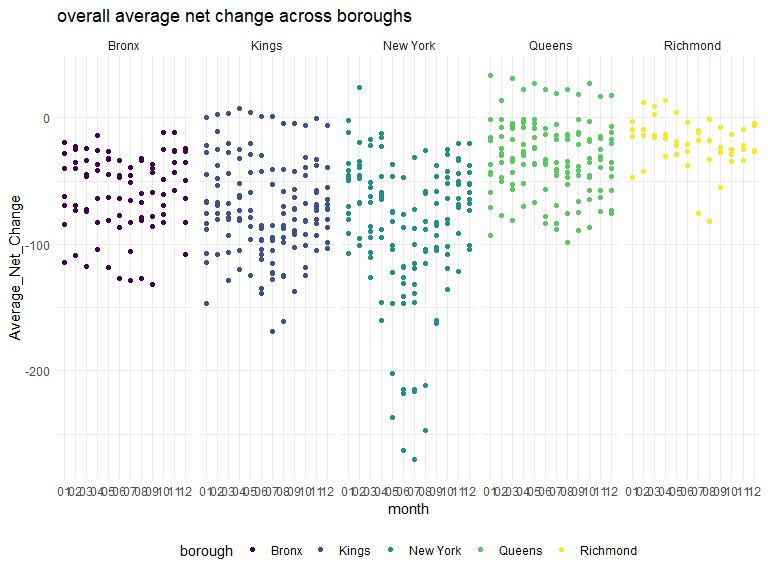
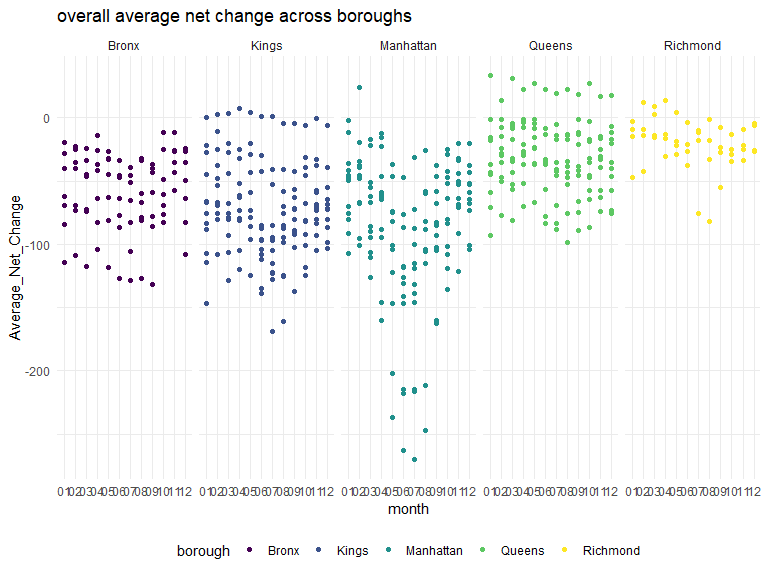
Write in report format

diff --git a/mt_project.md b/mt_project.md
@@ -1,4 +1,4 @@
-MT_project
+MT_Project
 ================
 Xiangxiong Feng
 2023-10-23
@@ -21,27 +21,28 @@ Xiangxiong Feng
     ## 
     ##     guess_encoding
 
-\#Problem one
+# Part-1
 
-The two raw datasets include ‘USPS CHANGES OF ADDRESS NYC’ and ‘Zip
-Codes’. The ‘USPS CHANGES OF ADDRESS NYC’ shows the aggregate Change of
-Address (COA) data in New York City between 2018 and 2022. The data
-includes 7variables such as zip code. There are total 11845
+The two raw datasets include `USPS CHANGES OF ADDRESS NYC` and
+`Zip Codes`. The ‘USPS CHANGES OF ADDRESS NYC’ shows the aggregate
+Change of Address (COA) data in New York City between 2018 and 2022. The
+data includes 7 variables such as zip code. There are total 11845
 observations. The ‘Zip Codes’ is a supplementary dataset which has
 important variables such as name of county and its neighborhood. There
-are 8 variables and 324observation.
+are 8 variables and 324 observation. The main goal of this report is to
+have a insights into trends in moving and changes of population size in
+different location in NYC.
 
-    ## # A tibble: 1 × 1
-    ##       n
-    ##   <int>
-    ## 1   320
+The first part is data cleaning and combination. For COA data, a
+variable `year` is added, and a variable `net_change` is created by
+subtracting outbound COAs from inbound COAs. For Zip Codes data, a
+variable `borough` is created using county names. Then, the two datasets
+are combined together and irrelevant variables are dropped. The
+resulting tidy dataset has 12168 observation and 9 variables. There are
+320 unique ZIP codes and 42 unique neighborhood.
 
-    ## # A tibble: 1 × 1
-    ##       n
-    ##   <int>
-    ## 1    42
-
-# 
+Then the `city` variable and \`borough variable is compared. The table
+below shows the most common values of city in the borough of Queens.
 
 | CITY                | Count |
 |:--------------------|------:|
@@ -114,6 +115,9 @@ are 8 variables and 324observation.
 | NEW YORK CITY       |     1 |
 | ST ALBANS           |     1 |
 
+The table below shows the most common values of city in the borough of
+Manhattan(New York County).
+
 | CITY             | Count |
 |:-----------------|------:|
 | NEW YORK         |  3477 |
@@ -137,44 +141,49 @@ origin Zip Codes data. For example, the records for ZIP code 10008 for
 certain months are missing, and this ZIP cod has fewer 60 observations.
 The neighborhood of this Zip code is also missing.
 
-# problem 2
+# Part-2
+
+A table showing the average of `net_change` in each borough and year is
+created and shown below. From this table, we can see that the overall
+average net change keeps getting more negative from 2018 and reach an
+unusual peak around 2020, then it begins to return to normal level. The
+overall population size is dercreasing.
 
     ## `summarise()` has grouped output by 'borough'. You can override using the
     ## `.groups` argument.
 
-| borough  | year | Average_net_change |
-|:---------|:-----|-------------------:|
-| Bronx    | 2018 |             -46.30 |
-| Bronx    | 2019 |             -48.02 |
-| Bronx    | 2020 |             -72.65 |
-| Bronx    | 2021 |             -66.10 |
-| Bronx    | 2022 |             -53.19 |
-| Kings    | 2018 |             -46.18 |
-| Kings    | 2019 |             -51.68 |
-| Kings    | 2020 |            -110.67 |
-| Kings    | 2021 |             -76.84 |
-| Kings    | 2022 |             -55.38 |
-| New York | 2018 |             -39.80 |
-| New York | 2019 |             -52.54 |
-| New York | 2020 |            -127.70 |
-| New York | 2021 |             -39.47 |
-| New York | 2022 |             -46.18 |
-| Queens   | 2018 |             -25.71 |
-| Queens   | 2019 |             -28.09 |
-| Queens   | 2020 |             -46.55 |
-| Queens   | 2021 |             -43.30 |
-| Queens   | 2022 |             -29.28 |
-| Richmond | 2018 |              -9.85 |
-| Richmond | 2019 |              -9.12 |
-| Richmond | 2020 |             -10.54 |
-| Richmond | 2021 |             -22.55 |
-| Richmond | 2022 |             -16.30 |
+| borough   | year | Average_net_change |
+|:----------|:-----|-------------------:|
+| Bronx     | 2018 |             -46.30 |
+| Bronx     | 2019 |             -48.02 |
+| Bronx     | 2020 |             -72.65 |
+| Bronx     | 2021 |             -66.10 |
+| Bronx     | 2022 |             -53.19 |
+| Kings     | 2018 |             -46.18 |
+| Kings     | 2019 |             -51.68 |
+| Kings     | 2020 |            -110.67 |
+| Kings     | 2021 |             -76.84 |
+| Kings     | 2022 |             -55.38 |
+| Manhattan | 2018 |             -39.80 |
+| Manhattan | 2019 |             -52.54 |
+| Manhattan | 2020 |            -127.70 |
+| Manhattan | 2021 |             -39.47 |
+| Manhattan | 2022 |             -46.18 |
+| Queens    | 2018 |             -25.71 |
+| Queens    | 2019 |             -28.09 |
+| Queens    | 2020 |             -46.55 |
+| Queens    | 2021 |             -43.30 |
+| Queens    | 2022 |             -29.28 |
+| Richmond  | 2018 |              -9.85 |
+| Richmond  | 2019 |              -9.12 |
+| Richmond  | 2020 |             -10.54 |
+| Richmond  | 2021 |             -22.55 |
+| Richmond  | 2022 |             -16.30 |
 
-A table showing the average of `net_change` in each borough and year is
-created. From this table, we can see that the overall average net change
-keeps getting more negative from 2018 and reach an unusual peak around
-2020, then it begins to return to normal level. The overall population
-size is dercreasing.
+The table below shows the five lowest values of net change. We can see
+that all see that all these five observation are made in 2020, which is
+corresponding to our last table. The reason could be population loss and
+death caused COVID pandemic.
 
 | ZIPCODE | Neighborhood                  | year | month | net_change |
 |--------:|:------------------------------|:-----|:------|-----------:|
@@ -184,10 +193,9 @@ size is dercreasing.
 |   10016 | Gramercy Park and Murray Hill | 2020 | 07    |       -855 |
 |   10009 | Lower East Side               | 2020 | 06    |       -804 |
 
-The table above shows the five lowest values of net change. We can see
-that all see that all these five observation are made in 2020, which is
-corresponding to our last table. The neighborhood of three observation
-are ‘Gramercy Park and Murray Hill’.
+The table below shows the five highest values of net change across data
+observed before 2020. These neighborhoods could have higher commerical
+value and value of further development.
 
 | ZIPCODE | Neighborhood        | year | month | net_change |
 |--------:|:--------------------|:-----|:------|-----------:|
@@ -197,8 +205,13 @@ are ‘Gramercy Park and Murray Hill’.
 |   10001 | Chelsea and Clinton | 2018 | 07    |        225 |
 |   11201 | Northwest Brooklyn  | 2018 | 04    |        217 |
 
-The table above shows the five highest values of net change across data
-observed before 2020.
+A plot of overall average net change across boroughs at
+neighborhood-level is shown below. For the plot, we can see that
+Manhattan experienced the largest population loss during April to
+September. There are many potential reasons such as Many college
+students graduating and at this time. There are some limitations of this
+dataset for understanding changes in ZIP code level population sizes.For
+example, several different ZIP codes are used in one same neighborhood.
 
     ## `summarise()` has grouped output by 'borough', 'month'. You can override using
     ## the `.groups` argument.
@@ -220,7 +233,115 @@ observed before 2020.
 
 | Method          | koRpus      | stringi       |
 |:----------------|:------------|:--------------|
-| Word count      | 274         | 261           |
-| Character count | 1587        | 1587          |
-| Sentence count  | 19          | Not available |
-| Reading time    | 1.4 minutes | 1.3 minutes   |
+| Word count      | 499         | 488           |
+| Character count | 2984        | 2984          |
+| Sentence count  | 35          | Not available |
+| Reading time    | 2.5 minutes | 2.4 minutes   |
+
+# appendix
+
+``` r
+library(tidyverse)
+library(ggridges)
+library(patchwork)
+library(rvest)
+library(readxl)
+
+knitr::opts_chunk$set(
+    echo = TRUE,
+    warning = FALSE,
+    fig.width = 8, 
+  fig.height = 6,
+  out.width = "90%"
+)
+
+theme_set(theme_minimal() + theme(legend.position = "bottom"))
+
+options(
+  ggplot2.continuous.colour = "viridis",
+  ggplot2.continuous.fill = "viridis"
+)
+
+scale_colour_discrete = scale_colour_viridis_d
+scale_fill_discrete = scale_fill_viridis_d
+#import data and clean data
+zip_code =
+  read.csv('data/Zip Codes.csv') |>
+  mutate(borough = County.Name)|>
+  rename(ZIPCODE = ZipCode)
+
+change_address_2018 = 
+  read_excel('data/USPS CHANGE OF ADDRESS NYC.xlsx', sheet = 1)
+change_address_2019 = 
+  read_excel('data/USPS CHANGE OF ADDRESS NYC.xlsx', sheet = 2)
+change_address_2020 = 
+  read_excel('data/USPS CHANGE OF ADDRESS NYC.xlsx', sheet = 3)
+change_address_2021 = 
+  read_excel('data/USPS CHANGE OF ADDRESS NYC.xlsx', sheet = 4)
+change_address_2022 = 
+  read_excel('data/USPS CHANGE OF ADDRESS NYC.xlsx', sheet = 5)
+
+change_address = 
+  bind_rows(change_address_2018,change_address_2019,change_address_2020,change_address_2021,change_address_2022)|>
+  separate(MONTH, into = c('year','month'), sep = 4)|>
+  mutate(
+    month = str_replace(month,'\\-',''),
+    net_change = `TOTAL PERM IN`- `TOTAL PERM OUT`)|>
+  separate(month, into = c('month', 'day'),sep = 2 )|>
+  select(-day)
+
+
+#data combination
+full_data = 
+  full_join(change_address,zip_code, by ='ZIPCODE')|>
+  select(-State.FIPS, -County.Code, -County.FIPS, -County.Name, -File.Date)|>
+  mutate(
+    borough = str_replace(borough, 'New York', 'Manhattan')
+  )
+#most common values of city in the borough of Queens
+full_data |>
+  filter(borough == 'Queens')|>
+  group_by(CITY)|>
+  summarise(Count = n())|>
+  arrange(desc(Count))|>
+  knitr::kable()
+#most common values of city in the borough of Manhattan
+full_data |>
+  filter(borough == 'Manhattan')|>
+  group_by(CITY)|>
+  summarise(Count = n())|>
+  arrange(desc(Count))|>
+  knitr::kable()
+#table showing the average of net_change in each borough and year
+full_data |>
+  group_by(borough, year)|>
+  summarize(Average_net_change = mean(net_change))|>
+  drop_na()|>
+  knitr::kable(digits = 2)
+  
+#a table showing, across all observed data, the five lowest values of net_change
+full_data |>
+  arrange(net_change)|>
+  head(5)|>
+  select(ZIPCODE, Neighborhood, year, month, net_change)|>
+  knitr::kable()
+#five highest values of net change across data observed before 2020
+full_data |>
+  filter(year%in% c('2018', '2019'))|>
+  arrange(desc(net_change))|>
+  head(5)|>
+  select(ZIPCODE, Neighborhood, year, month, net_change)|>
+  knitr::kable()
+#verall average net change across boroughs at neighborhood-level
+overall_average_net_change =
+  full_data|>
+  group_by(borough, month,Neighborhood)|>
+  summarize(Average_Net_Change = mean(net_change))|>
+  drop_na()|>
+  ggplot(aes(x= month, y= Average_Net_Change))+ geom_point(aes(color = borough))+
+  facet_grid(.~borough)+
+  labs(title = 'overall average net change across boroughs')
+overall_average_net_change
+ggsave("results/overall_average_net_change.pdf", overall_average_net_change, width = 8, height = 5)
+wordcountaddin::text_stats("mt_project.Rmd")
+```
